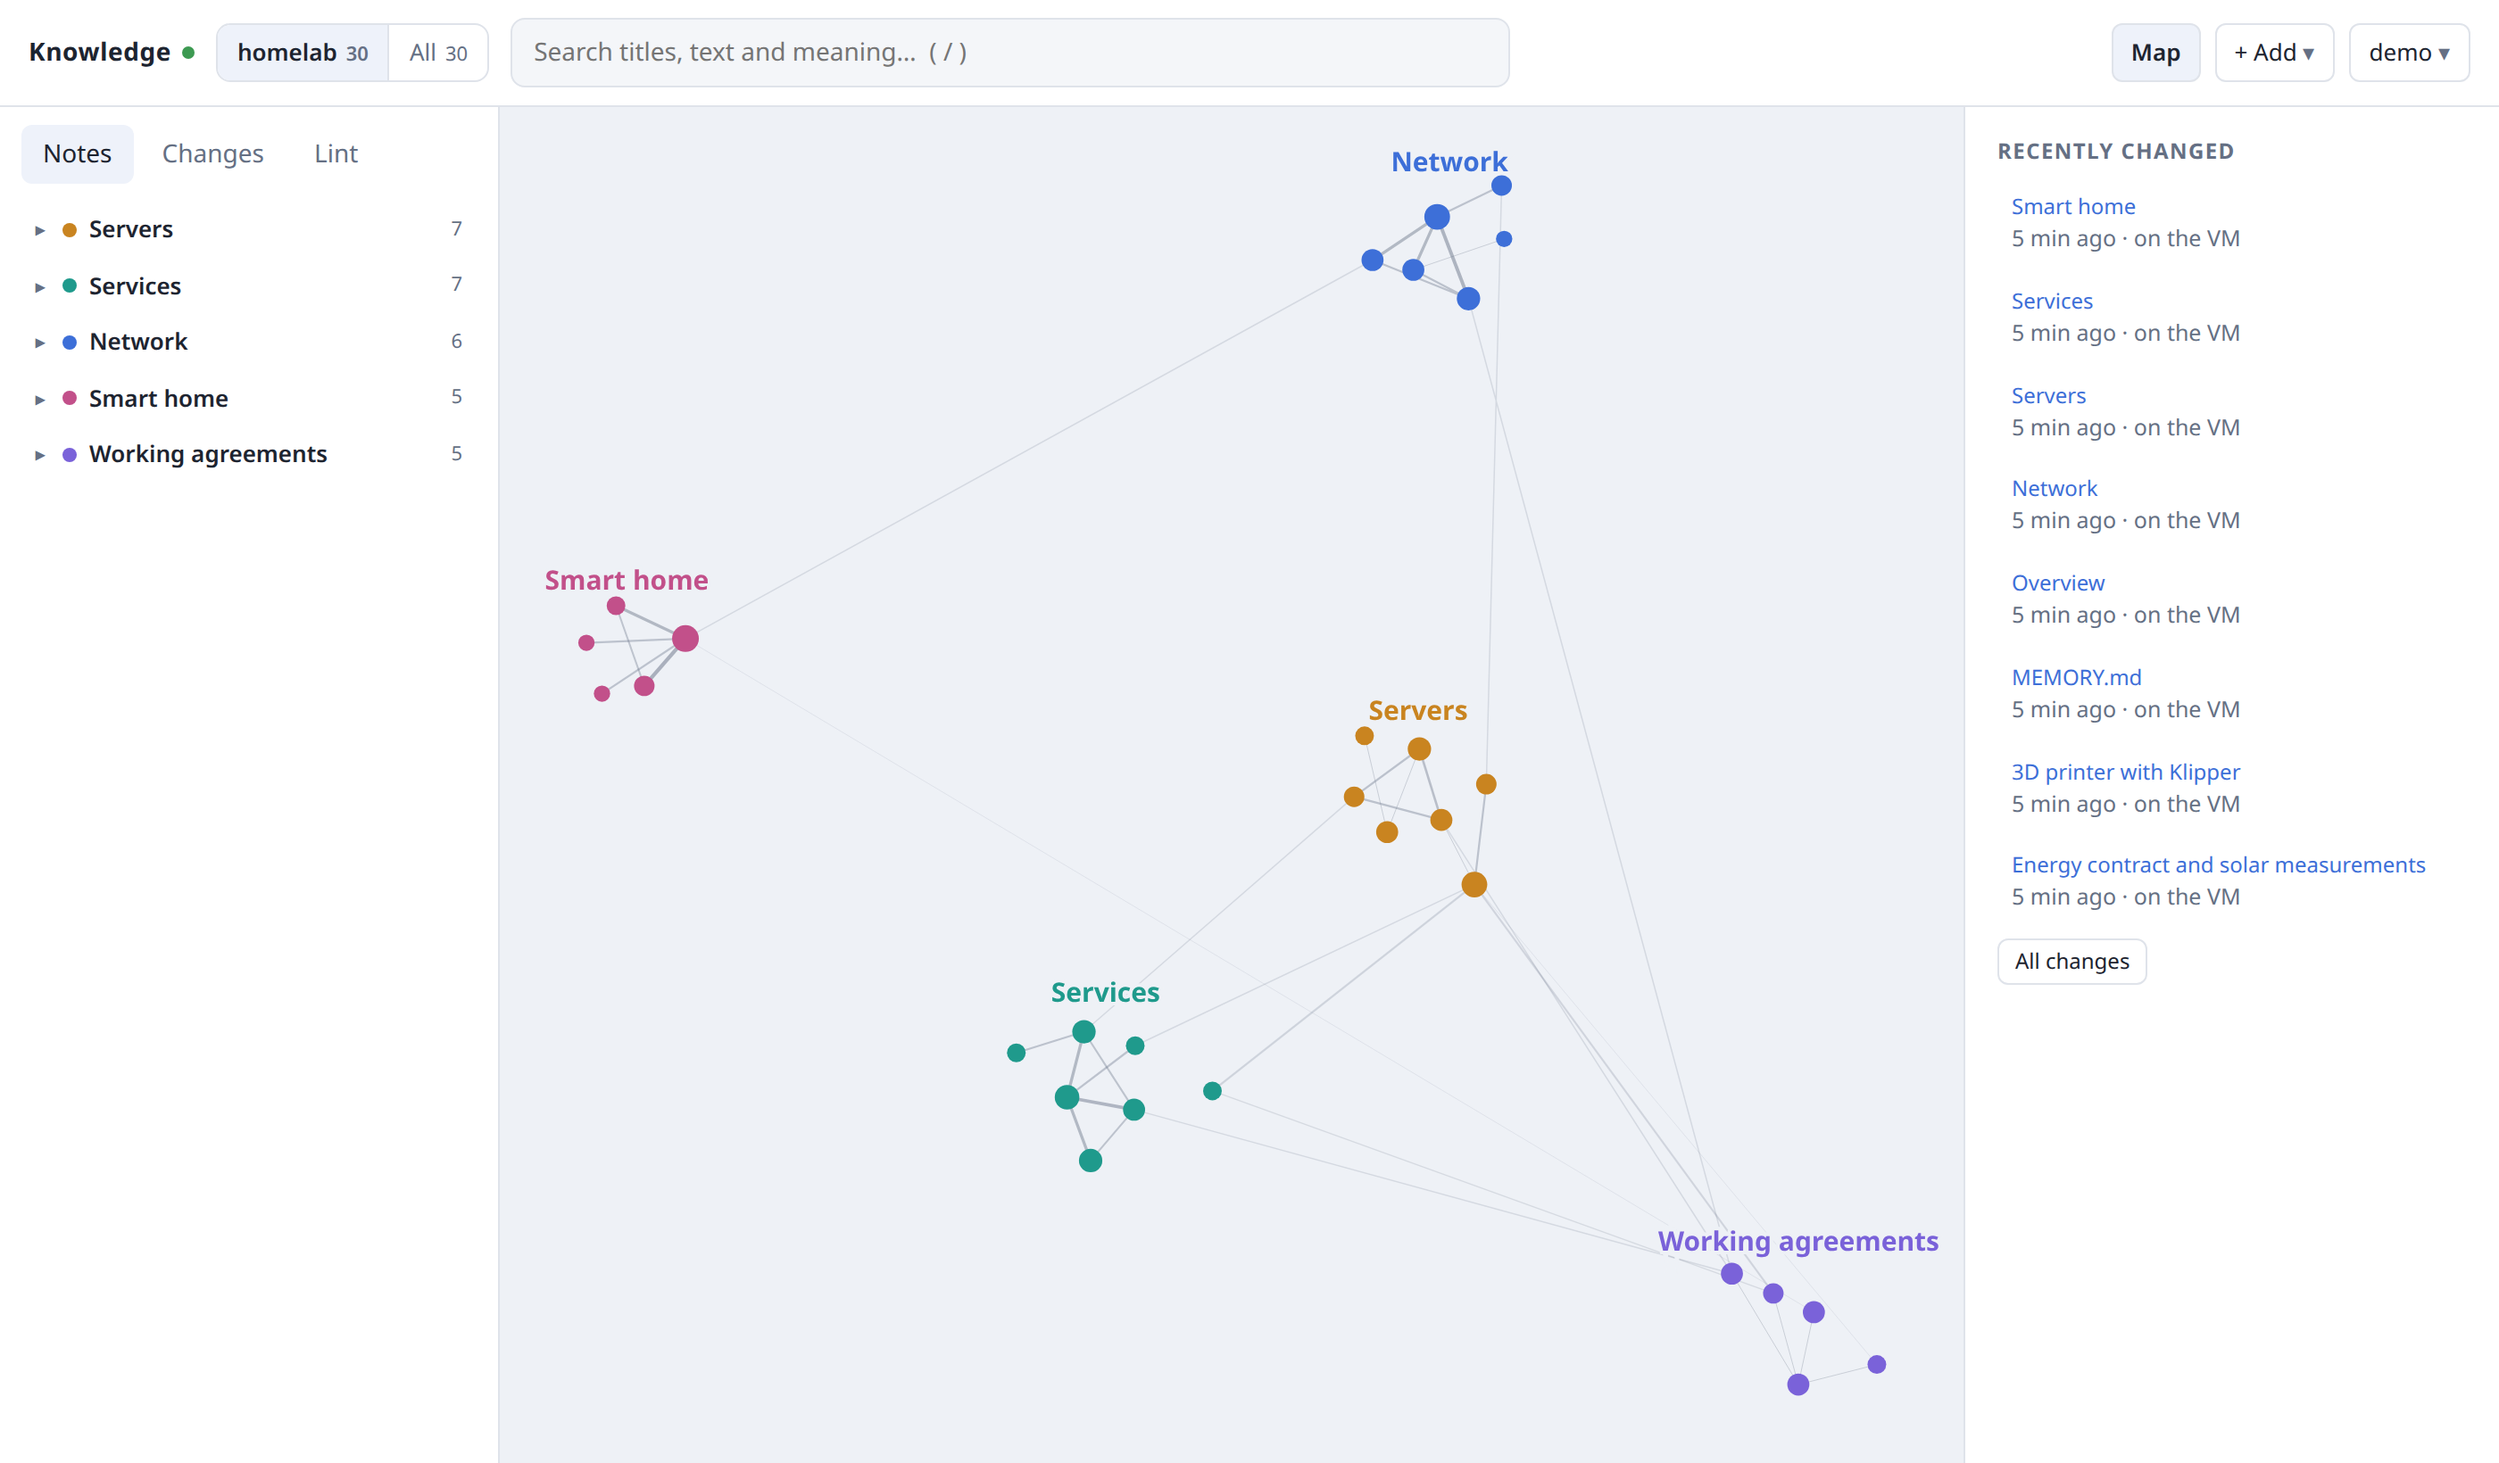
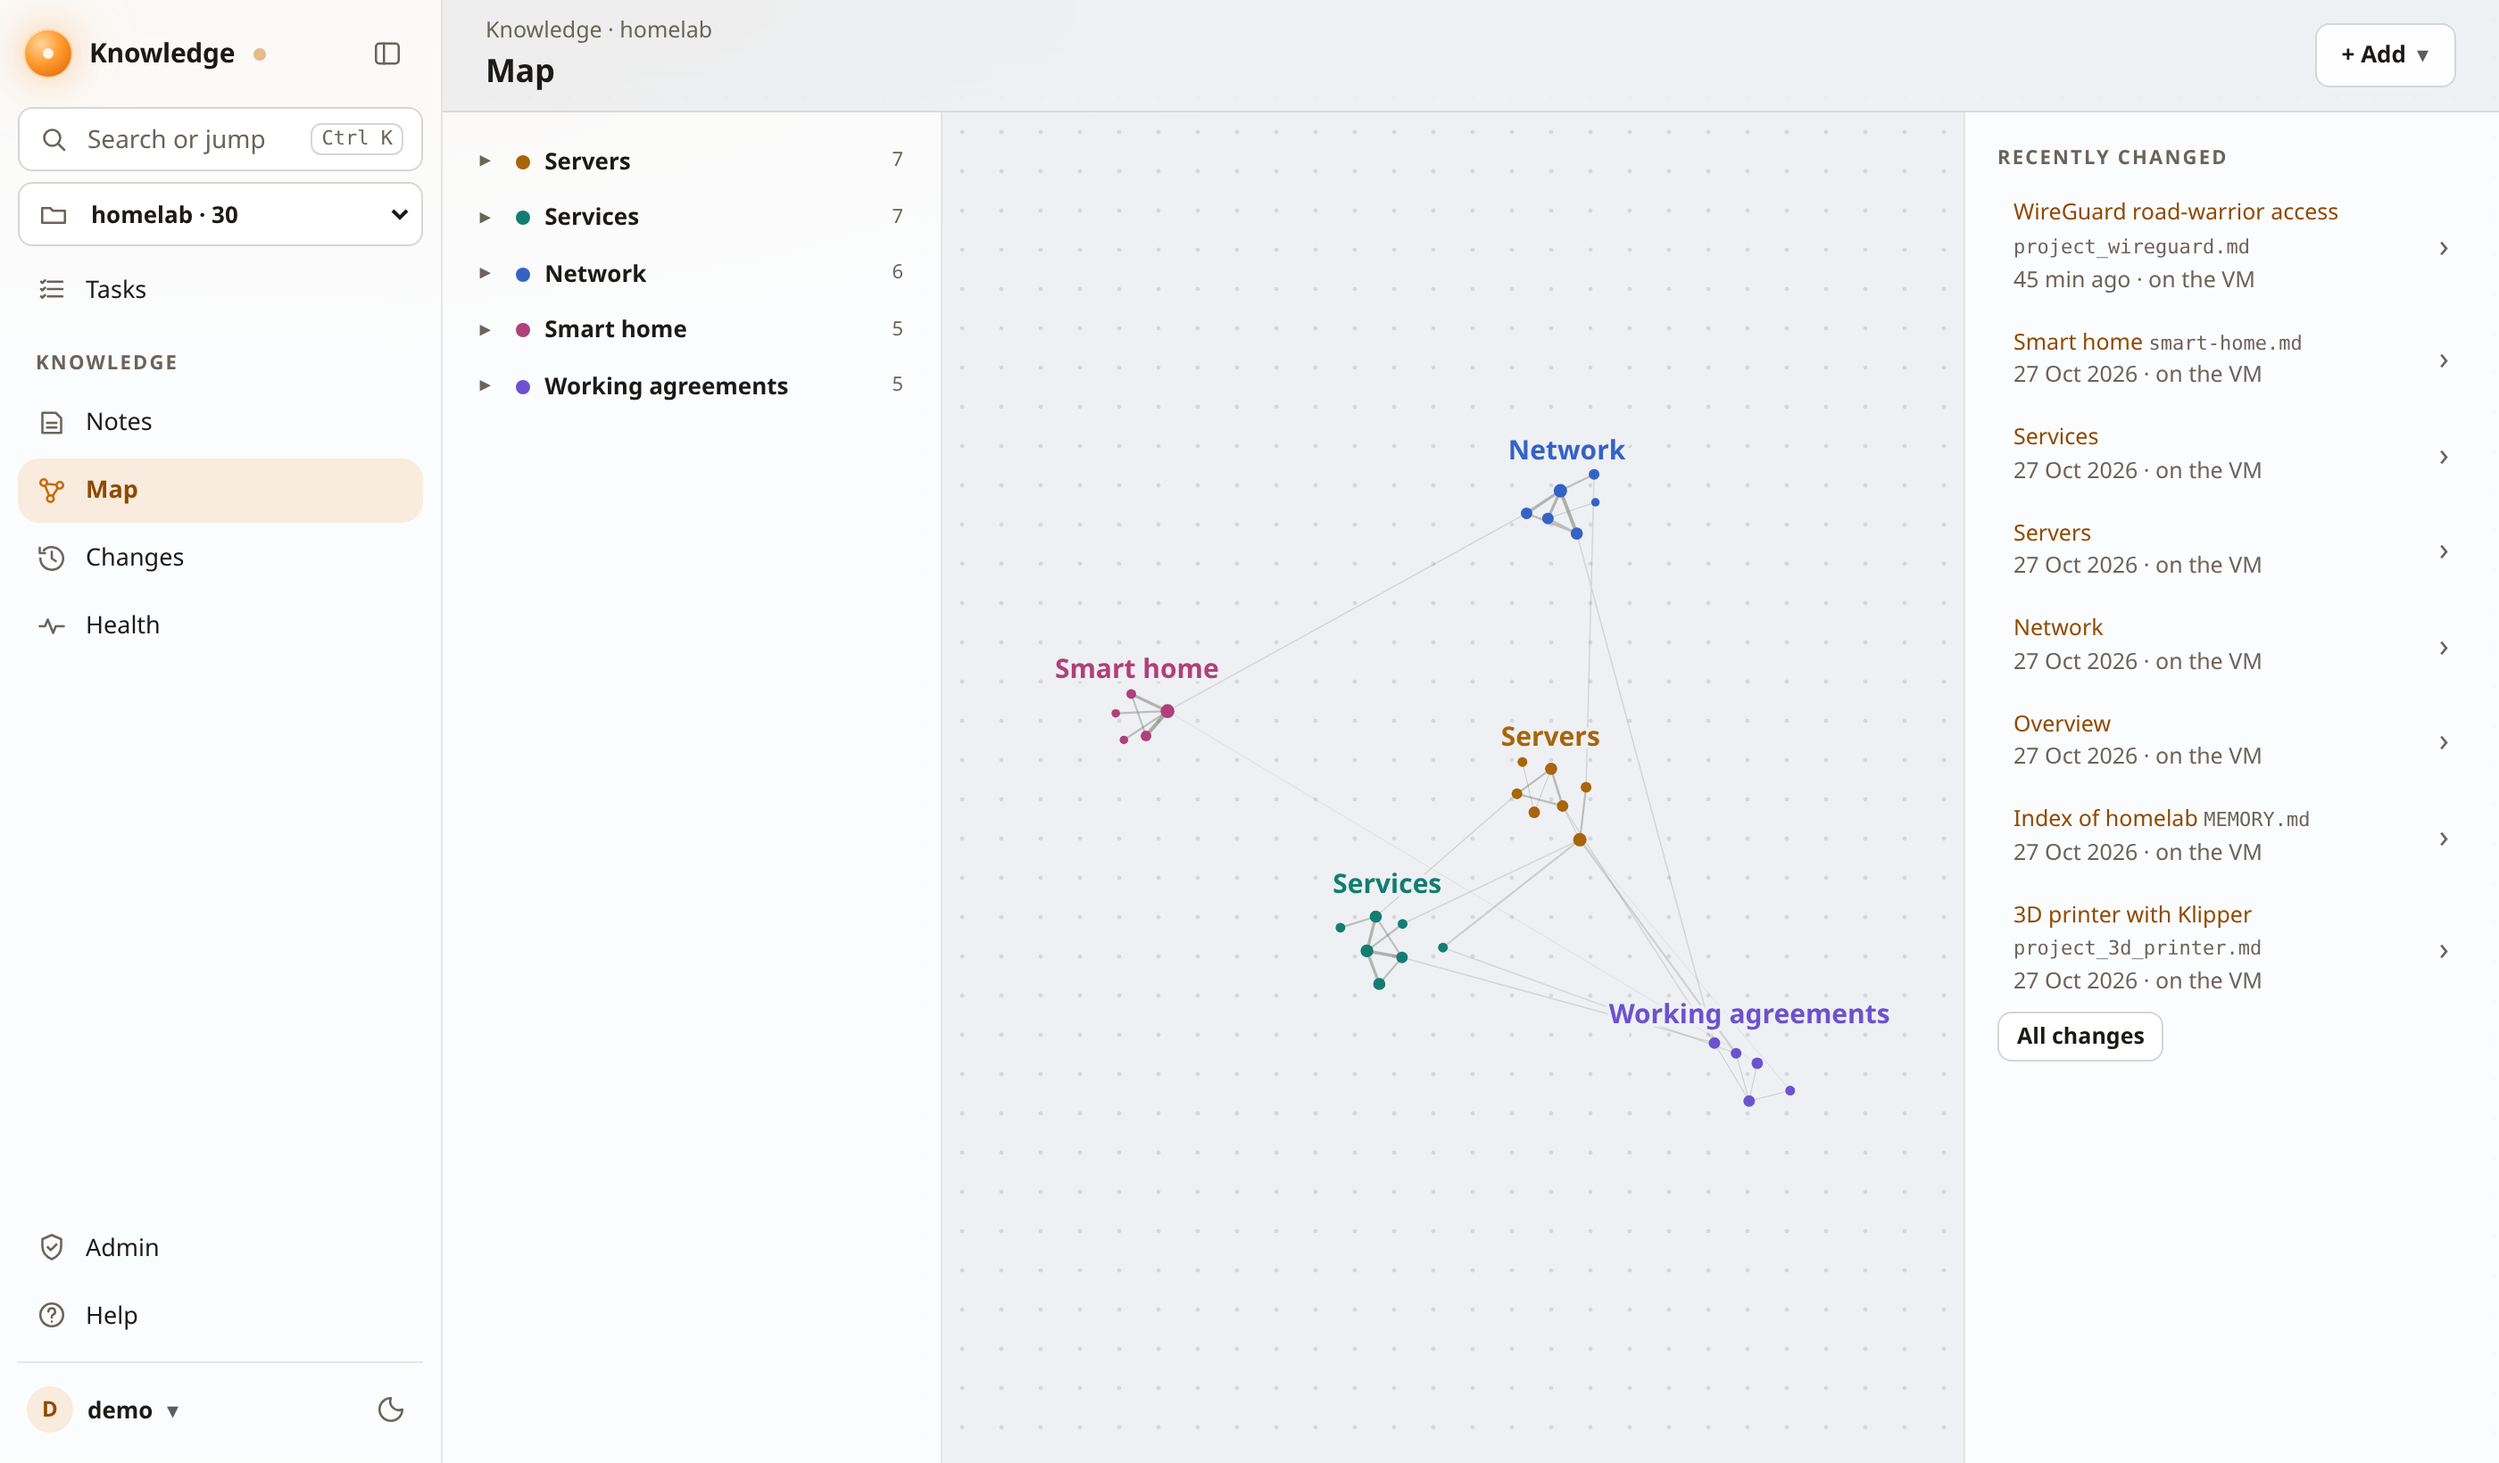
docs: an Agents view screenshot in the README (made-up demo data)
demo/screenshot.py now also shoots the Agents view on the seeded test
server of tests/ui_ci.py, light and dark, so nothing personal shows.

diff --git a/demo/screenshot.py b/demo/screenshot.py
@@ -57,6 +57,34 @@ async def shoot() -> None:
         await browser.close()
 
 
+async def shoot_agents() -> None:
+    """The Agents view on the seeded test server of tests/ui_ci.py (made-up pc, chat and task line)."""
+    sys.path.insert(0, str(DEMO.parent / "tests"))
+    import ui_ci
+    with tempfile.TemporaryDirectory() as t:
+        server = ui_ci.start(Path(t))
+        try:
+            ui_ci.seed()
+            head = {"X-Knowledge-Proxy": ui_ci.SECRET, "X-authentik-username": ui_ci.USER}
+            async with async_playwright() as p:
+                browser = await p.chromium.launch()
+                for scheme in ("light", "dark"):
+                    ctx = await browser.new_context(viewport={"width": 1400, "height": 820}, device_scale_factor=2, color_scheme=scheme,
+                                                    extra_http_headers=head)
+                    pg = await ctx.new_page()
+                    await pg.goto(ui_ci.BASE + "/ui#/chats")
+                    await pg.wait_for_selector("#ck-history .ck-chat, #ck-list .ck-item", timeout=20000)
+                    await pg.locator("#ck-history .ck-chat, #ck-list .ck-item-main").first.click()
+                    await pg.wait_for_selector("#ck-canvas .ck-card .ck-msg", timeout=20000)
+                    await pg.wait_for_timeout(1500)
+                    await pg.screenshot(path=str(DEMO / f"agents-{scheme}.png"))
+                    await ctx.close()
+                await browser.close()
+        finally:
+            server.terminate()
+            server.wait()
+
+
 if __name__ == "__main__":
     with tempfile.TemporaryDirectory() as t:
         server = start(Path(t))
@@ -65,4 +93,5 @@ if __name__ == "__main__":
         finally:
             server.terminate()
             server.wait()
-    print("saved", *sorted(DEMO.glob("map-*.png")))
+    asyncio.run(shoot_agents())
+    print("saved", *sorted(DEMO.glob("*.png")))

diff --git a/README.md b/README.md
@@ -24,14 +24,15 @@ homelabbers with two or more PCs and two or more agents who want their notes to 
   <img alt="The web UI map: notes grouped into topics, links between them" src="demo/map-light.png">
 </picture>
 
+<picture>
+  <source media="(prefers-color-scheme: dark)" srcset="demo/agents-dark.png">
+  <img alt="The Agents view: what needs you on the left with Reply, the open chat with the agent on the right" src="demo/agents-light.png">
+</picture>
+
 <sub>Made-up demo notes from <code>demo/</code>.</sub>
 
-<!-- Screenshots to add (demo/screenshot.py, made-up data only):
-     1. phone Inbox with the "Needs you" column
-     2. a chat on the phone with an approval (Allow once / Allow for this chat / Deny)
-     3. the mission map (Tasks > Flow)
-     4. the memory graph (above)
-     5. the Machines list -->
+<!-- More screenshots (demo/screenshot.py, made-up data only): a chat on the phone with an approval, Tasks > Flow,
+     the Machines list. -->
 
 You can use it in two layers. **Memory** is the server plus one agent: five minutes, nothing else on your PCs.
 **Cockpit** adds the companion on each PC, so tasks run as workers and you can chat and approve from your phone.
